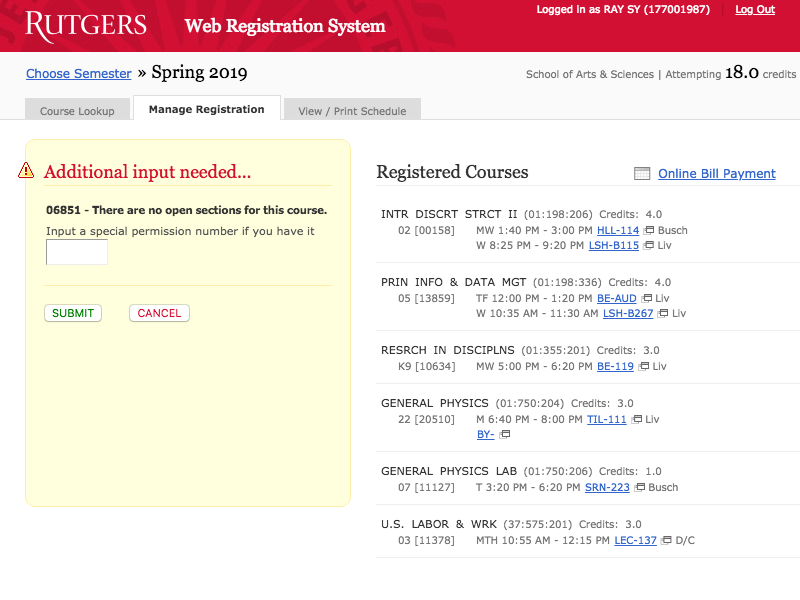
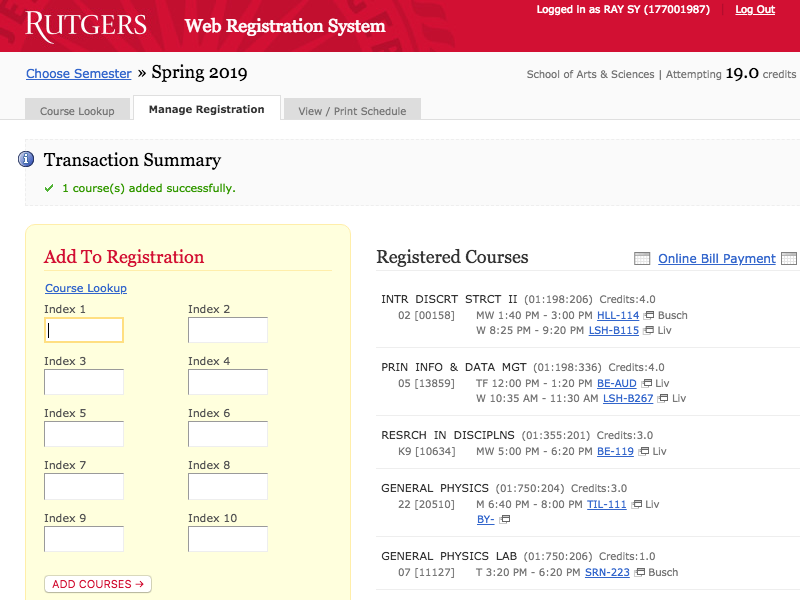
Working prototype complete

diff --git a/registration.js b/registration.js
@@ -1,15 +1,17 @@
 const puppeteer = require('puppeteer');
-const { login, passwprd } = require('./config/login.js');
-const course = require('./config/register.js');
+const { username, password } = require('./config/login.js');
+const { course, timeout } = require('./config/register.js');
+
 
 try {
   (async () => {
     try {
+      let hrstart = process.hrtime();
       const browser = await puppeteer.launch();
       const loginPage = await browser.newPage();
 
       await loginPage.goto('https://cas.rutgers.edu/login');
-      await loginPage.type('#username', login);
+      await loginPage.type('#username', username);
       await loginPage.type('#password', password);
       await loginPage.click('.btn-submit');
       await loginPage.waitForNavigation();
@@ -24,43 +26,64 @@ try {
         webregPage.click('#submit'),
         webregPage.waitForNavigation()
       ]);
-
+      await webregPage.screenshot({ path: 'screenshots/debug.png'});
       // adds class to first index box
       await webregPage.type('#i1', course);
       let wasAdded = false;
 
+      let attempts = 0;
+
       while (!wasAdded) {
         // click register button
-        await webregPage.click('#submit');
-        await webregPage.waitForNavigation();
+        await Promise.all([
+          webregPage.click('#submit'),
+          webregPage.waitForNavigation()
+        ]);
 
         // check to see if additional input box comes up
-        let additionalInputBox = await webregPage.$('.box');
-        if (additionalInputBox)
+        let additionalInputBox = await webregPage.evaluate(`document.getElementById('operations0.specialPermissionNumber');`);
+        if (additionalInputBox != null) {
           // grabs the error message
-          const error = await webregPage.$('.dt');
-          const errorMessage = await pave.evaluate(error => error.textContent, error);
+          const courseFullError = await webregPage.$('dt');
+          const courseFullErrorMessage = await webregPage.evaluate(courseFullError => courseFullError.textContent, courseFullError);
           // logs the failure
-          console.log(`Failed to register for course: ${course} with message: ${errorMessage}.\nTrying again...`);
-          // clicks the cancel button
-          await webregPage.click('[value=Cancel]');
+          console.log(`Failed to register for course: ${course}, with message: ${courseFullErrorMessage}.\nTrying again in ${timeout}...`);
+          // clicks the cancel button after timeout
+          await webregPage.waitFor(timeout);
+          await Promise.all([
+            webregPage.click('[value=Cancel]'),
+            webregPage.waitForNavigation()
+          ])
         } else {
-          // check to see if success message pops up
-
-          // checks to see if failure message pops up
-
-          // in all other cases try to continue
-
-          // waits for five seconds
+          // check for a success
+          const success = await webregPage.$('.info  .ok');
+          if (success) {
+            // log success
+            const successMessage = await webregPage.evaluate(success => success.textContent, success);
+            console.log(`Successfully registered for course: ${course}, with message: ${successMessage}.`);
+            // screenshots the success
+            await webregPage.screenshot({ path: 'screenshots/webreg.png'});
+            wasAdded = true;
+          } else {
+            // look for a generalError message
+            const generalError = await webregPage.$('.info  .error');
+            if (generalError) {
+              const generalErrorMessage = await webregPage.evaluate(generalError => generalError.textContent, generalError);
+              console.log(`Failed to register for course: ${course}, with message: ${generalErrorMessage}.\nTrying again in ${timeout}...`);
+              await webregPage.waitFor(timeout);
+            } else {
+              console.log(`Failed to register for course: ${course}, Due to unknown error.\nTrying again in ${timeout}...`);
+            }
+          }
         }
-        await page.waitFor(5000);
+        attempts++;
+        wasAdded = true;
       }
 
-      console.log('successfully registered for class');
-      await webregPage.screenshot({ path: 'screenshots/webreg.png'});
-
+      let hrend = process.hrtime(hrstart);
+      // exits program
+      console.log(`Made ${attempts} attempt(s) in ${hrend[0]} seconds.`);
       browser.close();
-
     } catch (err) {
       console.log(err);
     }
